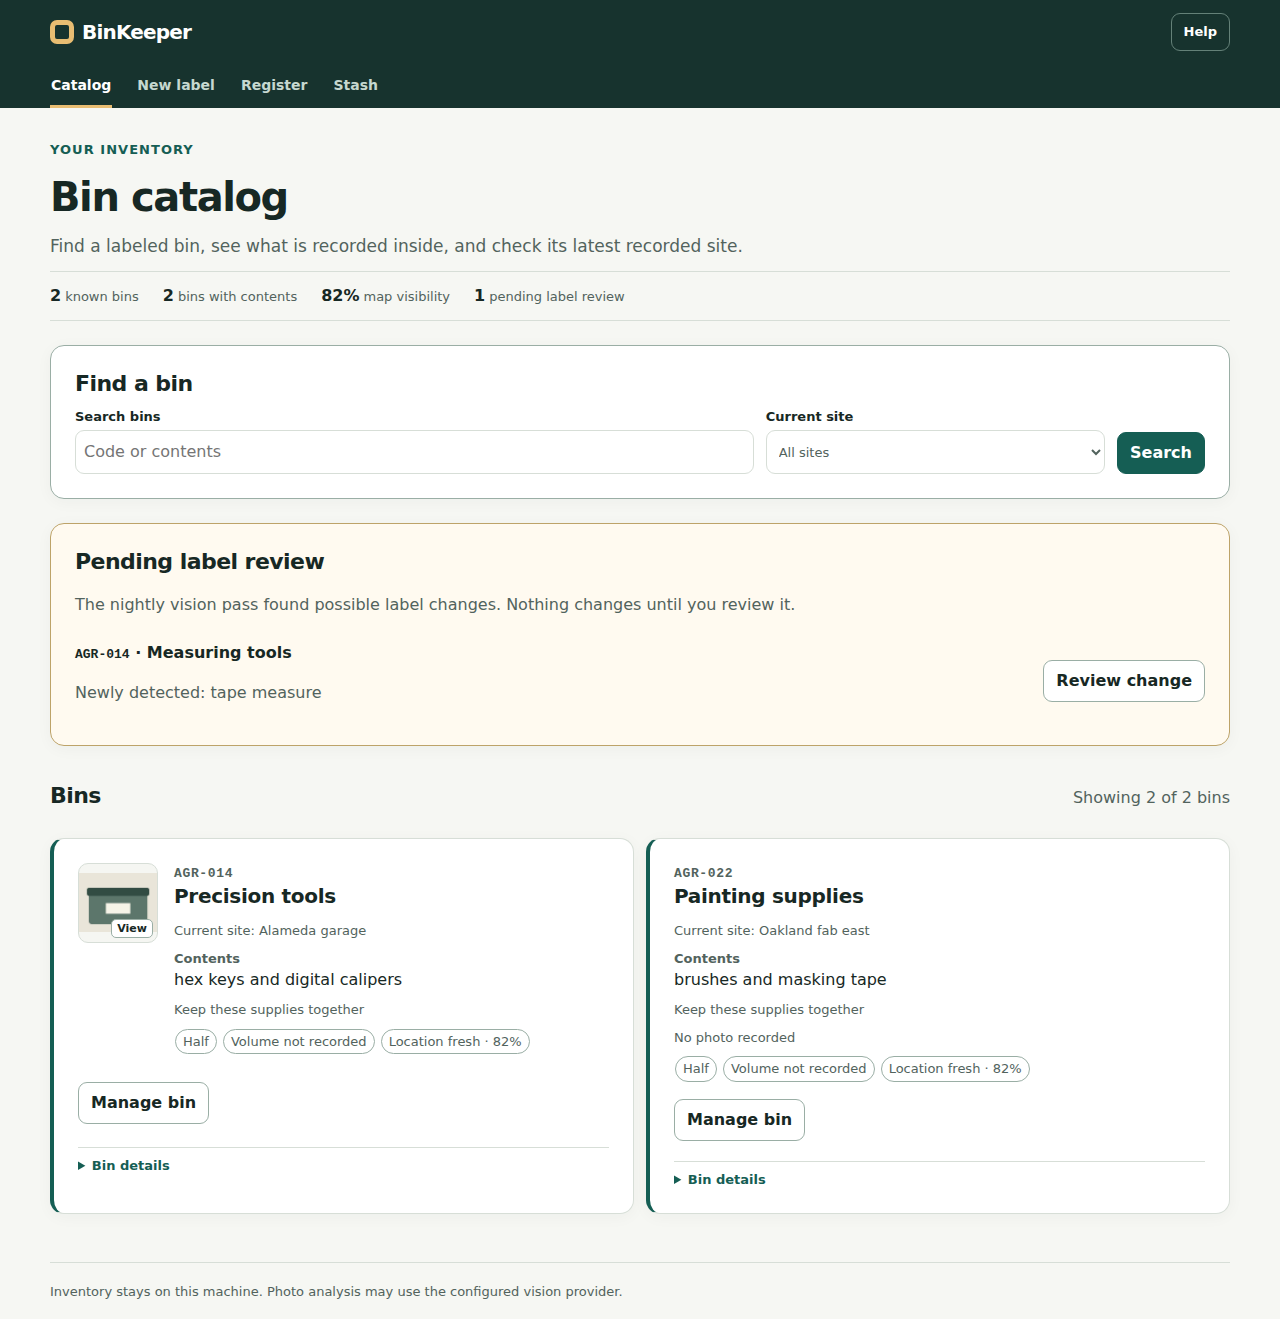
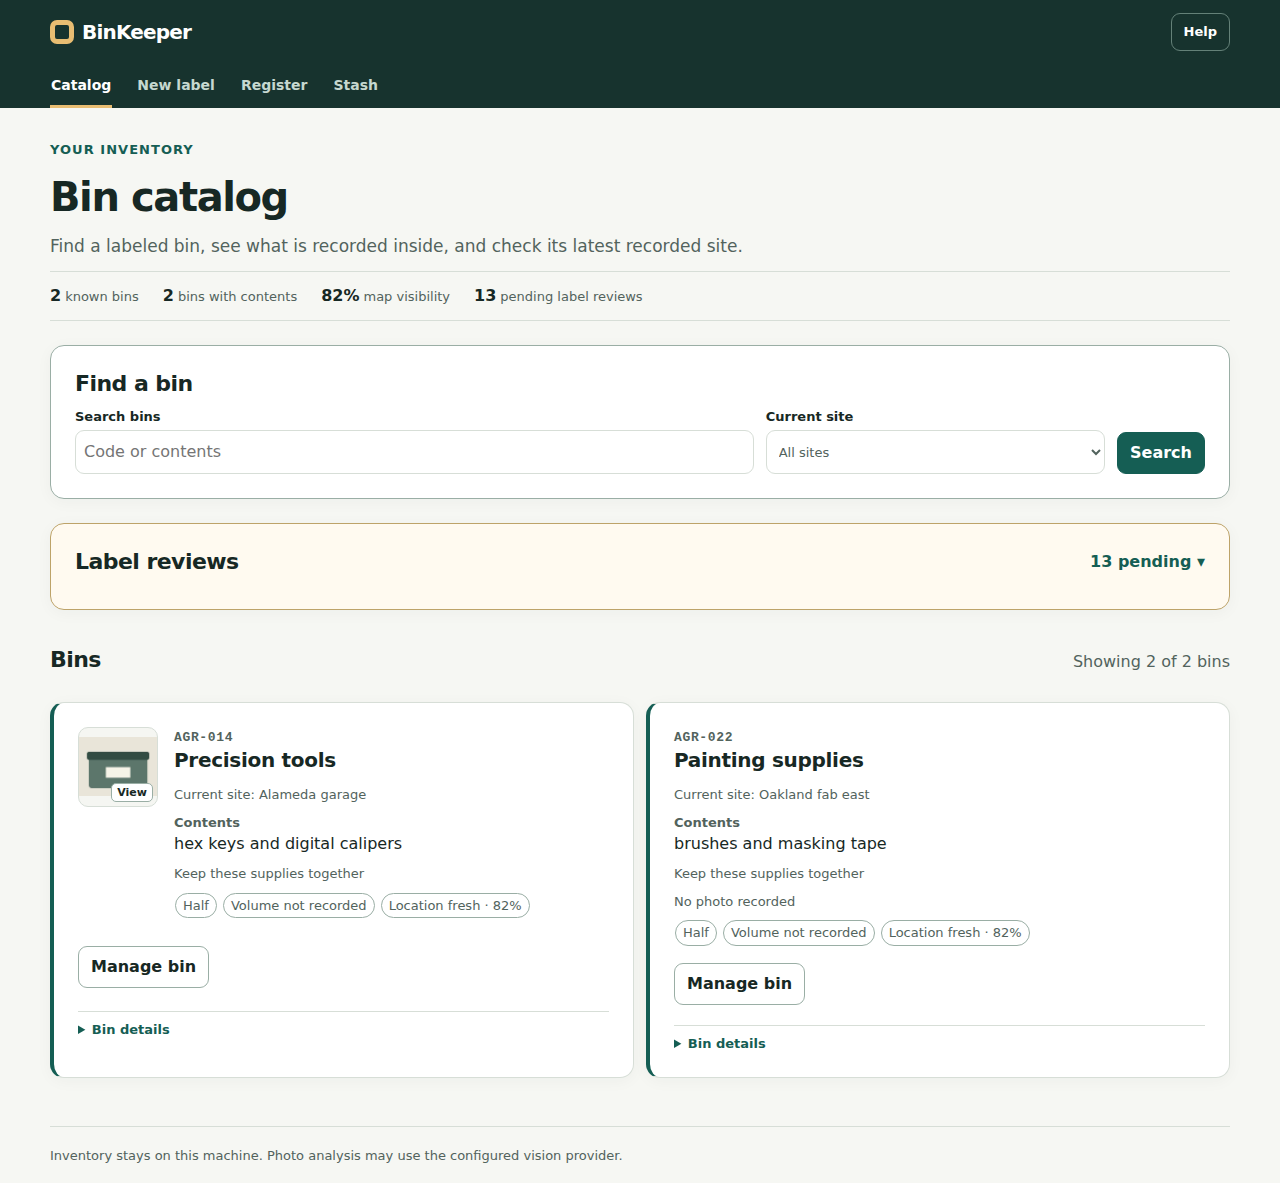
Keep large label review queues out of catalog path

diff --git a/src/binkeeper/bin_catalog_web/templates/bin_catalog.html b/src/binkeeper/bin_catalog_web/templates/bin_catalog.html
@@ -217,6 +217,20 @@
   .bin-catalog-details > .details-body { padding: var(--space-2) 0 0; }
   .bin-catalog-no-match { text-align: center; }
   .bin-label-review-panel { border-color: var(--color-warn-muted); background: #fffaf0; }
+  .bin-label-review-panel > summary {
+    display: flex;
+    justify-content: space-between;
+    align-items: center;
+    gap: var(--space-3);
+    cursor: pointer;
+    list-style: none;
+  }
+  .bin-label-review-panel > summary::-webkit-details-marker { display: none; }
+  .bin-label-review-panel > summary h2 { margin: 0; }
+  .bin-label-review-panel > summary span { color: var(--color-accent); font-weight: 700; white-space: nowrap; }
+  .bin-label-review-panel > summary span::after { content: " ▾"; }
+  .bin-label-review-panel[open] > summary span::after { content: " ▴"; }
+  .bin-label-review-body { display: grid; gap: var(--space-3); margin-top: var(--space-3); }
   .bin-label-review-list { display: grid; gap: var(--space-3); }
   .bin-label-review-row {
     display: flex; justify-content: space-between; gap: var(--space-3); align-items: center;
@@ -244,6 +258,7 @@
     .bin-catalog-hero { gap: var(--space-3); }
     .bin-catalog-stat { min-width: 42%; }
     .bin-catalog-theme { font-size: 18px; }
+    .bin-label-review-panel > summary h2 { font-size: 17px; white-space: nowrap; }
     .bin-label-review-row { align-items: stretch; flex-direction: column; }
     .bin-label-review-row .button { width: fit-content; }
     .bin-photo-dialog-shell { padding: var(--space-3); }
@@ -322,23 +337,23 @@
   </section>
 
   {% if label_drift_count %}
-  <section class="panel panel-padded stack bin-label-review-panel" aria-labelledby="label-review-heading">
-    <div>
-      <h2 id="label-review-heading">Pending label review</h2>
+  <details class="panel panel-padded bin-label-review-panel">
+    <summary><h2 id="label-review-heading">Label reviews</h2><span>{{ label_drift_count }} pending</span></summary>
+    <div class="bin-label-review-body">
       <p class="muted">The nightly vision pass found possible label changes. Nothing changes until you review it.</p>
-    </div>
-    <div class="bin-label-review-list">
-      {% for review in label_drift_entries %}
-      <div class="bin-label-review-row">
-        <div>
-          <strong><code>{{ review.bin_code }}</code> · {{ review.proposed_theme }}</strong>
-          {% if review.new_item_labels %}<p class="muted">Newly detected: {{ review.new_item_labels|join(', ') }}</p>{% endif %}
+      <div class="bin-label-review-list">
+        {% for review in label_drift_entries %}
+        <div class="bin-label-review-row">
+          <div>
+            <strong><code>{{ review.bin_code }}</code> · {{ review.proposed_theme }}</strong>
+            {% if review.new_item_labels %}<p class="muted">Newly detected: {{ review.new_item_labels|join(', ') }}</p>{% endif %}
+          </div>
+          {% if review.manage_url %}<a class="button" href="{{ review.manage_url }}">Review change</a>{% endif %}
         </div>
-        {% if review.manage_url %}<a class="button" href="{{ review.manage_url }}">Review change</a>{% endif %}
+        {% endfor %}
       </div>
-      {% endfor %}
     </div>
-  </section>
+  </details>
   {% endif %}
 
   <section class="stack" aria-labelledby="results-heading">

diff --git a/scripts/uipass_fixture.py b/scripts/uipass_fixture.py
@@ -5,6 +5,7 @@ from __future__ import annotations
 import os
 import sys
 from collections.abc import Awaitable, Callable, Sequence
+from dataclasses import replace
 from datetime import UTC, datetime
 from io import BytesIO
 
@@ -55,6 +56,18 @@ PROPOSAL = LabelDriftQueueEntry(
     new_item_labels=("tape measure",),
     photo_hashes=(),
     model_versions=("synthetic-model",),
+)
+PROPOSALS = (
+    PROPOSAL,
+    *(
+        replace(
+            PROPOSAL,
+            proposal_external_id=f"synthetic-proposal-{number}",
+            bin_code=f"AGR-{number:03d}",
+            new_item_labels=("instruction manual", "small boxed parts", "yellow-tipped fastener"),
+        )
+        for number in range(101, 113)
+    ),
 )
 
 
@@ -117,7 +130,7 @@ def create_app(port: int) -> FastAPI:
             passport_loader=lambda: PASSPORTS,
             containment_loader=lambda: {},
             virtual_loader=lambda: [],
-            label_drift_loader=lambda: [PROPOSAL],
+            label_drift_loader=lambda: PROPOSALS,
             photo_source=_SyntheticPhotos(),
         ),
     )

diff --git a/docs/verification/visual-refresh-2026-09-24.md b/docs/verification/visual-refresh-2026-09-24.md
@@ -2,7 +2,9 @@
 
 The owner rejected the appearance of the [first UIPass fix](uipass-2026-09-24.md): the overflow and disclosure defects were fixed, but the pages still looked like a dense admin interface. That earlier `SHIP_WITH_NOTES` verdict applies to the measured defects, not to acceptance of the visual design. This pass changes the layout of the catalog, new-label form, and bin management page while retaining their existing actions.
 
-The catalog now puts search ahead of the results, uses compact two-column cards on desktop, and puts the bin name, contents, and current site ahead of secondary metadata. Empty photo states use one line of text instead of a large blank frame. A synthetic photo checks the real-thumbnail state. On phones, all four navigation links stay visible in one row, cards stack, and the pending-review action stays below its explanation. The new-label form presents photo selection and its primary action first; optional notes, site, and code are in a native disclosure. The management page groups details and photos side by side on desktop and adds links to its sections.
+The catalog now puts search ahead of the results, uses compact two-column cards on desktop, and puts the bin name, contents, and current site ahead of secondary metadata. Empty photo states use one line of text instead of a large blank frame. A synthetic photo checks the real-thumbnail state. On phones, all four navigation links stay visible in one row and cards stack. The new-label form presents photo selection and its primary action first; optional notes, site, and code are in a native disclosure. The management page groups details and photos side by side on desktop and adds links to its sections.
+
+A read-only check of the live catalog after the first deployment exposed a scale problem that the initial two-bin fixture missed: 13 pending label reviews filled the page before any bin card appeared. The review queue is now collapsed by default behind a visible count. The fixture models 13 synthetic proposals and tests both the collapsed and expanded states. Opening the section still reveals every proposal and its review link.
 
 ## Visual evidence
 
@@ -12,10 +14,11 @@ All images use synthetic bins and a generated photo from [`scripts/uipass_fixtur
 |---|---|
 | Catalog, 1280 px | [Desktop catalog](catalog-visual-desktop.png) |
 | Catalog, 320 px | [Narrow catalog](catalog-visual-narrow.png) |
+| Label queue expanded, 1280 px | [Expanded review queue](catalog-reviews-open.png) |
 | New label, 320 px | [Narrow photo form](photo-visual-narrow.png) |
 | Manage bin, 1280 px | [Desktop management](manage-visual-desktop.png) |
 
-The [final UIPass verdict](uipass-visual-final.json) records 24 completed cases across 320, 390, and 1280 CSS px, with no findings or warnings. Cases include a populated catalog, no-match results, expanded bin details, the new-label form with its options expanded, registration, a pending management review, and a location-section jump. UIPass checked selected accessibility rules, horizontal overflow, page errors, and console errors. The synthetic browser did not submit forms or exercise owner inventory, printing, or the vision provider.
+The [final UIPass verdict](uipass-visual-final.json) records 27 completed cases across 320, 390, and 1280 CSS px, with no findings or warnings. Cases include a populated catalog, no-match results, expanded bin details and review queue, the new-label form with its options expanded, registration, a pending management review, and a location-section jump. UIPass checked selected accessibility rules, horizontal overflow, page errors, and console errors. The synthetic browser did not submit forms or exercise owner inventory, printing, or the vision provider.
 
 The catalog and photo web tests passed: 79 passed, 17 skipped. Ruff lint and format checks, Pyright, and wheel resource verification passed. The pending photo form copy assertion was adjusted only for its new sentence casing.
 
